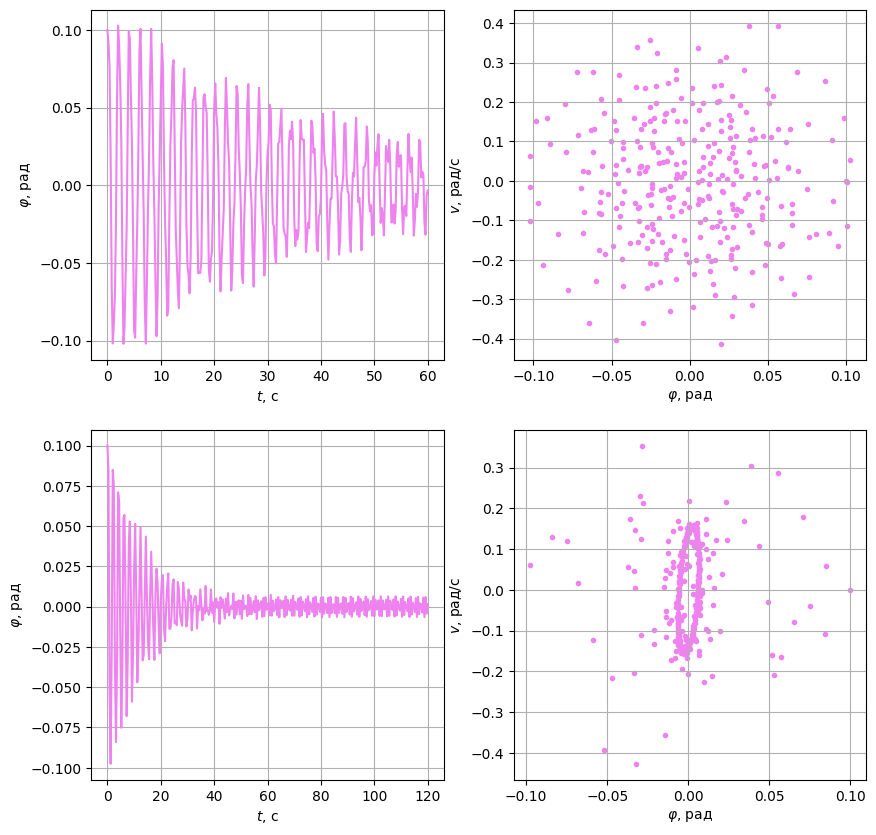
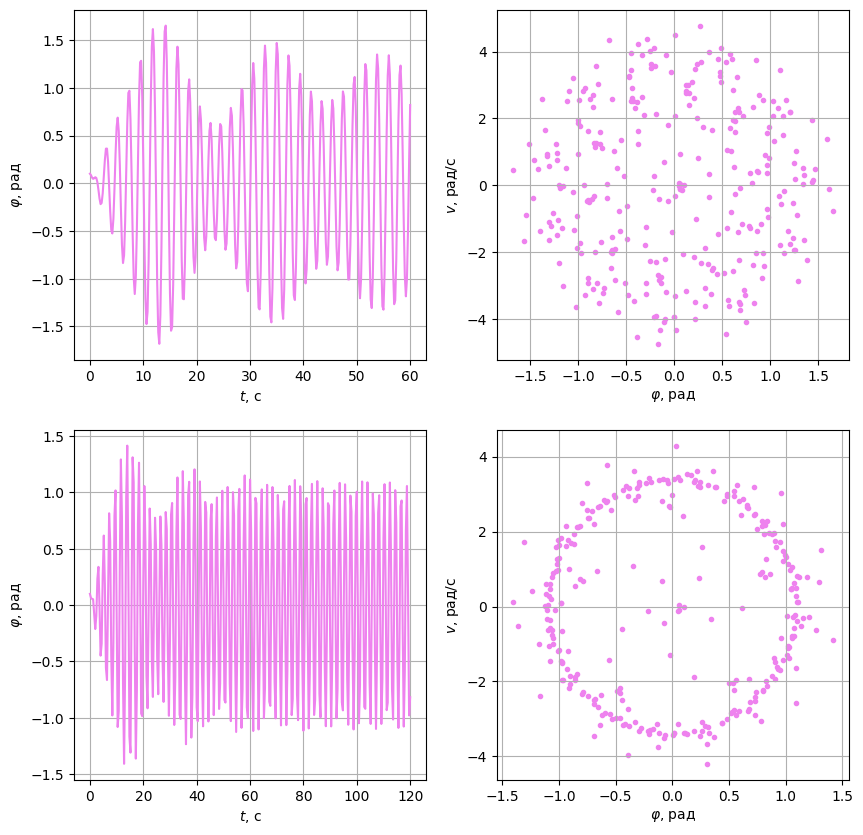
fix beating

Changed region(s): [[0.0, 0.0, 0.9942, 0.4982], [0.0301, 0.4982, 0.9942, 0.9964], [0.7532, 0.9341, 0.8134, 0.9964]]

diff --git a/main.py b/main.py
@@ -203,7 +203,7 @@ if __name__ == '__main__':
 
     k = 0.05
     A = 1
-    omega_f = 9
+    omega_f = 3
     parameters = [omega, k, omega_f, A]
 
     fig, axs = plt.subplots(2, 2, figsize=(10, 10))
